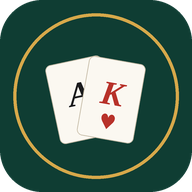
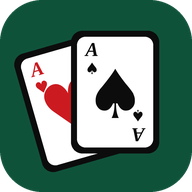
Nuevo ícono: as de corazones y as de picas sobre verde mesa
Claude-Session: https://claude.ai/code/session_014CGmQukVVVB8DouxwMdkPw

diff --git a/sw.js b/sw.js
@@ -1,4 +1,4 @@
-const CACHE = "blackjack-v1";
+const CACHE = "blackjack-v2";
 const CORE = ["./", "index.html", "manifest.webmanifest", "icon-192.png", "icon-512.png", "apple-touch-icon.png"];
 
 self.addEventListener("install", e => {
